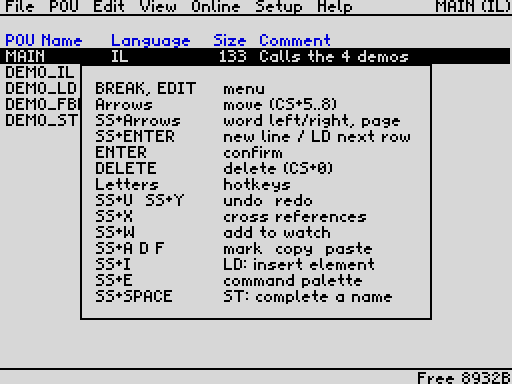
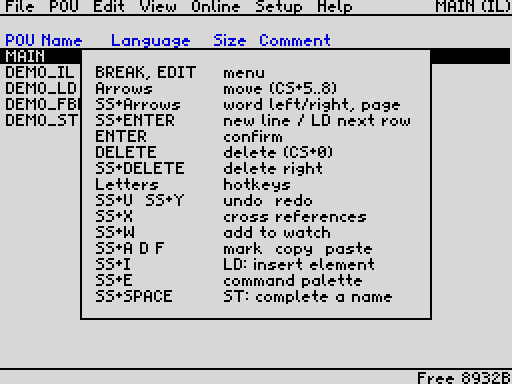
SS+DELETE deletes right of the cursor; popup save area for Help > Controls
SS+DELETE (CS+SS+0, K_FDEL; the browser's Delete key) in the IL, ST and
symbol editors and in ui_input: one step right, then the DELETE path.
Help > Controls (22 x 17 cells, with the new line) did not fit win_save
and overwrote the start of the clipboard: WIN_MAXC is now 22 x 18 cells;
the clipboard takes the rest of the DATA bank (11.4 KB) and refuses a
larger block. Web page: Delete key, Ctrl + arrows, Online > Run.

Claude-Session: https://claude.ai/code/session_01VKWfWedvrUMzzGZ6BCaduV

Changed region(s): [[0.1562, 0.125, 0.8438, 0.4688]]

diff --git a/web/index.html b/web/index.html
@@ -55,11 +55,13 @@
       <kbd>Ctrl</kbd>+<kbd>Y</kbd> redo, <kbd>Ctrl</kbd>+<kbd>Space</kbd> complete a name (ST),
       <kbd>Ctrl</kbd>+<kbd>E</kbd> command palette</td></tr>
     <tr><td>Arrows, <kbd>Backspace</kbd>, <kbd>Enter</kbd></td><td>cursor keys, DELETE, ENTER</td></tr>
+    <tr><td><kbd>Ctrl</kbd>+<kbd>&larr;</kbd> / <kbd>&rarr;</kbd>, <kbd>Delete</kbd></td><td>one word back / forward,
+      delete the character right of the cursor (SS + DELETE)</td></tr>
     <tr><td><kbd>%</kbd> <kbd>!</kbd> <kbd>$</kbd> <kbd>(</kbd> <kbd>)</kbd> &hellip;</td>
       <td>typed as on a PC keyboard (sent as SS + the Spectrum key); operands are e.g. <code>%IX0.0</code></td></tr>
     <tr><td>letters</td><td>hotkeys of the menus and elements</td></tr>
   </table>
-  <p>Try it: <b>Run &gt; Run</b> runs the demo project; in the simulation the keys <kbd>0</kbd>&ndash;<kbd>7</kbd>
+  <p>Try it: <b>Online &gt; Run</b> runs the demo project; in the simulation the keys <kbd>0</kbd>&ndash;<kbd>7</kbd>
     toggle the inputs. Saving and loading projects does not work in the browser, and the UR-4 interface is not
     emulated here.</p>
   <p><b>Kempston mouse:</b> switch it on with <b>Setup &gt; Mouse</b>. Over the emulator the PC pointer is
@@ -102,12 +104,14 @@
     let mod, key;
     if (e.key in CS) { mod = 16; key = CS[e.key]; }
     else if (e.key in SS && !e.ctrlKey) { mod = 17; key = SS[e.key]; }
+    else if (e.key === 'Delete') { mod = [16, 17]; key = 48; }   // CS+SS+0: delete right
     else return;
     e.stopImmediatePropagation(); e.preventDefault();
     if (held[e.keyCode]) return;         // autorepeat: the Spectrum repeats by itself
     const to = e.target;
     if (e.shiftKey && mod === 17) send('keyup', 16, to);   // no CAPS SHIFT with the symbol
-    send('keydown', mod, to); send('keydown', key, to);
+    for (const m of [].concat(mod)) send('keydown', m, to);
+    send('keydown', key, to);
     held[e.keyCode] = [mod, key, to];
   }, true);
   window.addEventListener('keyup', e => {
@@ -116,7 +120,8 @@
     if (!h) return;
     e.stopImmediatePropagation(); e.preventDefault();
     delete held[e.keyCode];
-    send('keyup', h[1], h[2]); send('keyup', h[0], h[2]);
+    send('keyup', h[1], h[2]);
+    for (const m of [].concat(h[0])) send('keyup', m, h[2]);
     if (e.shiftKey && h[0] === 17) send('keydown', 16, h[2]);
   }, true);
 })();

diff --git a/tools/st_uitest.py b/tools/st_uitest.py
@@ -187,7 +187,8 @@ RESULTS = []
 
 
 def t_words(ui):
-    """SS+LEFT / SS+RIGHT jump by words (letters, digits, '_')"""
+    """SS+LEFT / SS+RIGHT jump by words (letters, digits, '_'), SS+DELETE
+    deletes the char right of the cursor"""
     ui.play(new_st("WJ") + T("a := b + c1;"))
     pos = lambda: ui.z.bank_bytes(6, ui.sym("st_pos"), 1)[0]
     got = [pos()]
@@ -195,6 +196,9 @@ def t_words(ui):
         ui.play(k + "w20 ")
         got.append(pos())
     compare("words: cursor positions", got, [12, 9, 5, 0, 5, 9, 12])
+    ui.play("k:SS+CS+5 w20 k:SS+CS+0 w20 k:SS+CS+0 w20 ")   # SS+DELETE: "c1" removed
+    check("words: SS+DELETE deletes to the right",
+          ui.fbd_str("se_buf") == "a := b + ;" and pos() == 9, (ui.fbd_str("se_buf"), pos()))
 
 
 def t_watchwrite(ui):

diff --git a/CLAUDE.md b/CLAUDE.md
@@ -132,11 +132,12 @@ editor and key for users.
   - RUN 4: compilers (also `src/st_comp.asm`, `src/st_var.asm`), VM, bytecode at 0xF000, POU list, tape,
     SD card (`src/sd.asm`). It is uncontended, which tape timing needs (~0.4 KB free). Above `BCODE_END`:
     0xF800-0xFBFF the ST tokenizer of the compiler, 0xFC00 / 0xFD00 the ST locals (LV_INIT / LV_BASE).
-  - DATA 1: the popup save buffer, `src/globals.asm` (declarations of the global variables),
-    `src/il_check.asm` (the IL line check `il_check` / `il_check_label`,
-    called through `il_chk` / `il_chk_label` in il_edit.asm, which copy the texts to fixed memory first)
-    and the clipboard (`clip_buf`, filled by `src/clip.asm`, at least 12 KB; the build prints the free
-    space as "DATA").
+  - DATA 1: `src/il_check.asm` (the IL line check `il_check` / `il_check_label`, called through
+    `il_chk` / `il_chk_label` in il_edit.asm, which copy the texts to fixed memory first),
+    `src/globals.asm` (declarations of the global variables), the popup save buffer `win_save`
+    (WIN_MAXC cells x 9 B, menu.asm: it must hold the largest popup, Help > Controls 22 x 17; measure
+    `win_cols` x `win_rows` after adding text to a popup) and the clipboard (`clip_buf`, the rest of the
+    bank, CLIP_MAX ~11.4 KB, printed by the build; a larger block is refused by clip.asm).
   - DEMO 3: `src/tools.asm` (cross references, watch / force page of the simulation, Help texts),
     `src/clip.asm` (mark / copy / cut / paste, called by the editors with `BCALL cl_cmd` / `mk_draw`),
     `src/wexpr.asm`, `src/mouse.asm`, `src/ur4.asm`, `src/trend.asm`, `src/complete.asm` (ST name
@@ -228,7 +229,8 @@ editor and key for users.
   - The menu bar title (`menu_pou`) shows the POU name, or Symbols / Watch / Trend (`mp_alt`).
   - SS+LEFT / SS+RIGHT (`K_HOME` / `K_END`) jump one word back / forward in texts (`word_l` / `word_r`,
     util.asm; words = letters, digits, '_'): IL, ST, symbol editor, `ui_input`. The LD / FBD grids use them
-    for the row start / end. The browser's Ctrl + arrows arrive as these keys.
+    for the row start / end. The browser's Ctrl + arrows arrive as these keys. SS+DELETE (CS+SS+0, `K_FDEL`,
+    the browser's Delete) deletes right of the cursor (moves one right, then the DELETE path).
   - Command palette (SS+E = `K_PAL`, Ctrl+E in the browser): `kb_get` turns K_PAL into K_EDIT and sets
     `pal_req`, so every screen opens "the menu"; `menu_run` then calls `BCALL pal_run`
     (src/complete.asm) instead of the drop-downs: the list window of the name completion (`ac_ui`,

diff --git a/docs/MANUAL.md b/docs/MANUAL.md
@@ -71,6 +71,7 @@ The cursor keys are CAPS SHIFT + 5 / 6 / 7 / 8, DELETE is CAPS SHIFT + 0. Combin
 | BREAK (CS+SPACE), EDIT (CS+1) | open / close the menu |
 | Arrows | move; in a menu: other title / item |
 | SS + LEFT / RIGHT | one word back / forward in a text (IL, ST, comments, symbols, input fields; Ctrl + arrows in the browser); in the LD / FBD grid: first position / output column |
+| SS + DELETE (CS + SS + 0) | delete the character right of the cursor (Delete in the browser) |
 | SS + UP / DOWN | one screen up / down (POU list: first / last POU) |
 | SS + ENTER | IL: new line below; LD / FBD: start of the next row |
 | ENTER | confirm, open, edit |
@@ -464,7 +465,8 @@ works like a small text editor:
   added when the next line already starts with the `THEN` / `DO` / `OF`.
 * ENTER splits the line at the cursor (at the end: a new empty line below), SS+ENTER opens an empty line
   below. DELETE deletes the character left of the cursor; on an empty line it removes the line.
-  SS+LEFT / SS+RIGHT jump one word back / forward, SS+UP / SS+DOWN page.
+  SS+LEFT / SS+RIGHT jump one word back / forward, SS+DELETE deletes the character right of the cursor,
+  SS+UP / SS+DOWN page.
 * SS+X and SS+W take the operand under (or just before) the cursor; the status bar shows its symbol and
   comment (for a local variable its type).
 * **Symbols / addresses:** an operand that has an address is stored as that address (`%MW0`,
